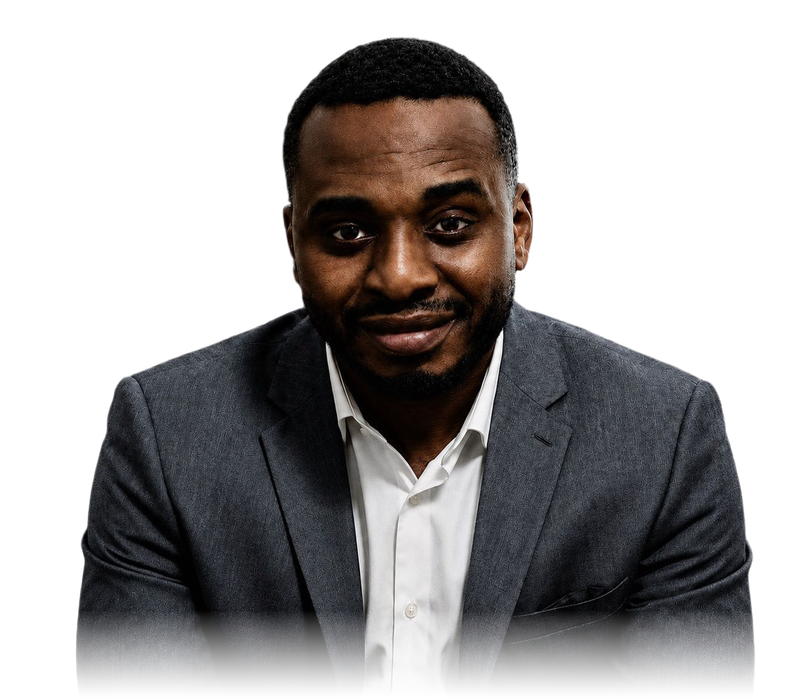
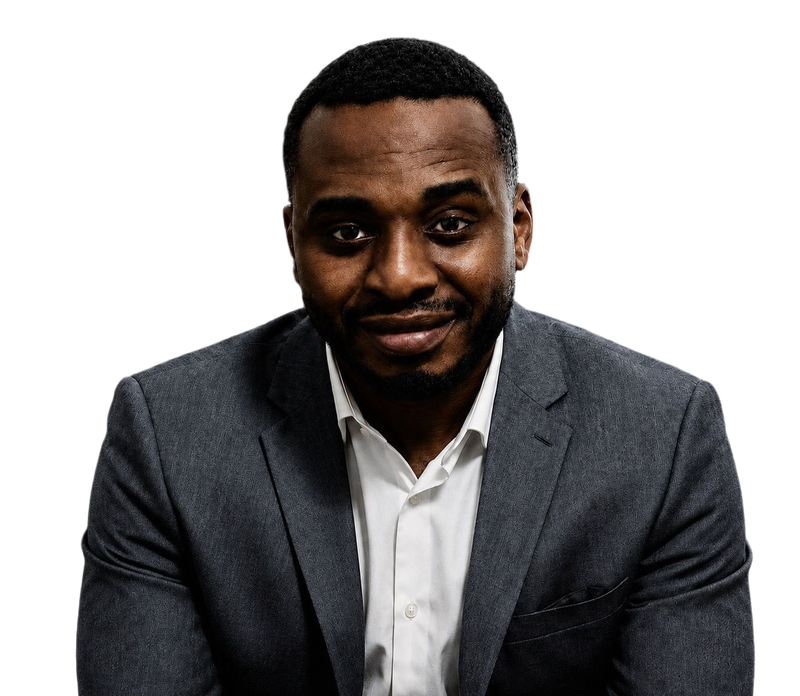
v26: founder cut-outs end on a crisp straight crop at the same height (fade removed)

diff --git a/index.html b/index.html
@@ -251,8 +251,8 @@
       <div>
         <p class="label sub-label">Founders</p>
         <div class="founders">
-          <article class="founder"><button type="button" class="founder__photo" aria-pressed="false"><picture><source srcset="assets/photos/founder-unoma-cutout.webp" type="image/webp"><img src="assets/photos/founder-unoma-cutout.png" alt="Dr. Unoma Okorafor" loading="lazy" decoding="async" width="800" height="700"></picture></button><h3>Dr. Unoma Okorafor</h3></article>
-          <article class="founder"><button type="button" class="founder__photo" aria-pressed="false"><picture><source srcset="assets/photos/founder-russell-cutout.webp" type="image/webp"><img src="assets/photos/founder-russell-cutout.png" alt="Dr. Russell Avre" loading="lazy" decoding="async" width="800" height="700"></picture></button><h3>Dr. Russell Avre</h3></article>
+          <article class="founder"><button type="button" class="founder__photo" aria-pressed="false"><picture><source srcset="assets/photos/founder-unoma-cutout.webp" type="image/webp"><img src="assets/photos/founder-unoma-cutout.png" alt="Dr. Unoma Okorafor" loading="lazy" decoding="async" width="800" height="696"></picture></button><h3>Dr. Unoma Okorafor</h3></article>
+          <article class="founder"><button type="button" class="founder__photo" aria-pressed="false"><picture><source srcset="assets/photos/founder-russell-cutout.webp" type="image/webp"><img src="assets/photos/founder-russell-cutout.png" alt="Dr. Russell Avre" loading="lazy" decoding="async" width="800" height="696"></picture></button><h3>Dr. Russell Avre</h3></article>
         </div>
       </div>
       <div>

diff --git a/styles.css b/styles.css
@@ -682,3 +682,6 @@ html[data-bg="steel"]:not([data-accent="blue"]) .footer nav a:hover{color:var(--
   .founder__photo img,.founder__photo::after{transition:none!important}
   .founder__photo:hover img,.founder__photo:focus-visible img,.founder__photo[aria-pressed="true"] img{transform:none!important}
 }
+/* v26: crisp straight bottom crop (no fade); shadow sits just under the edge */
+.founder__photo::after{bottom:-3%;height:7%}
+.founder h3{margin-top:18px}
